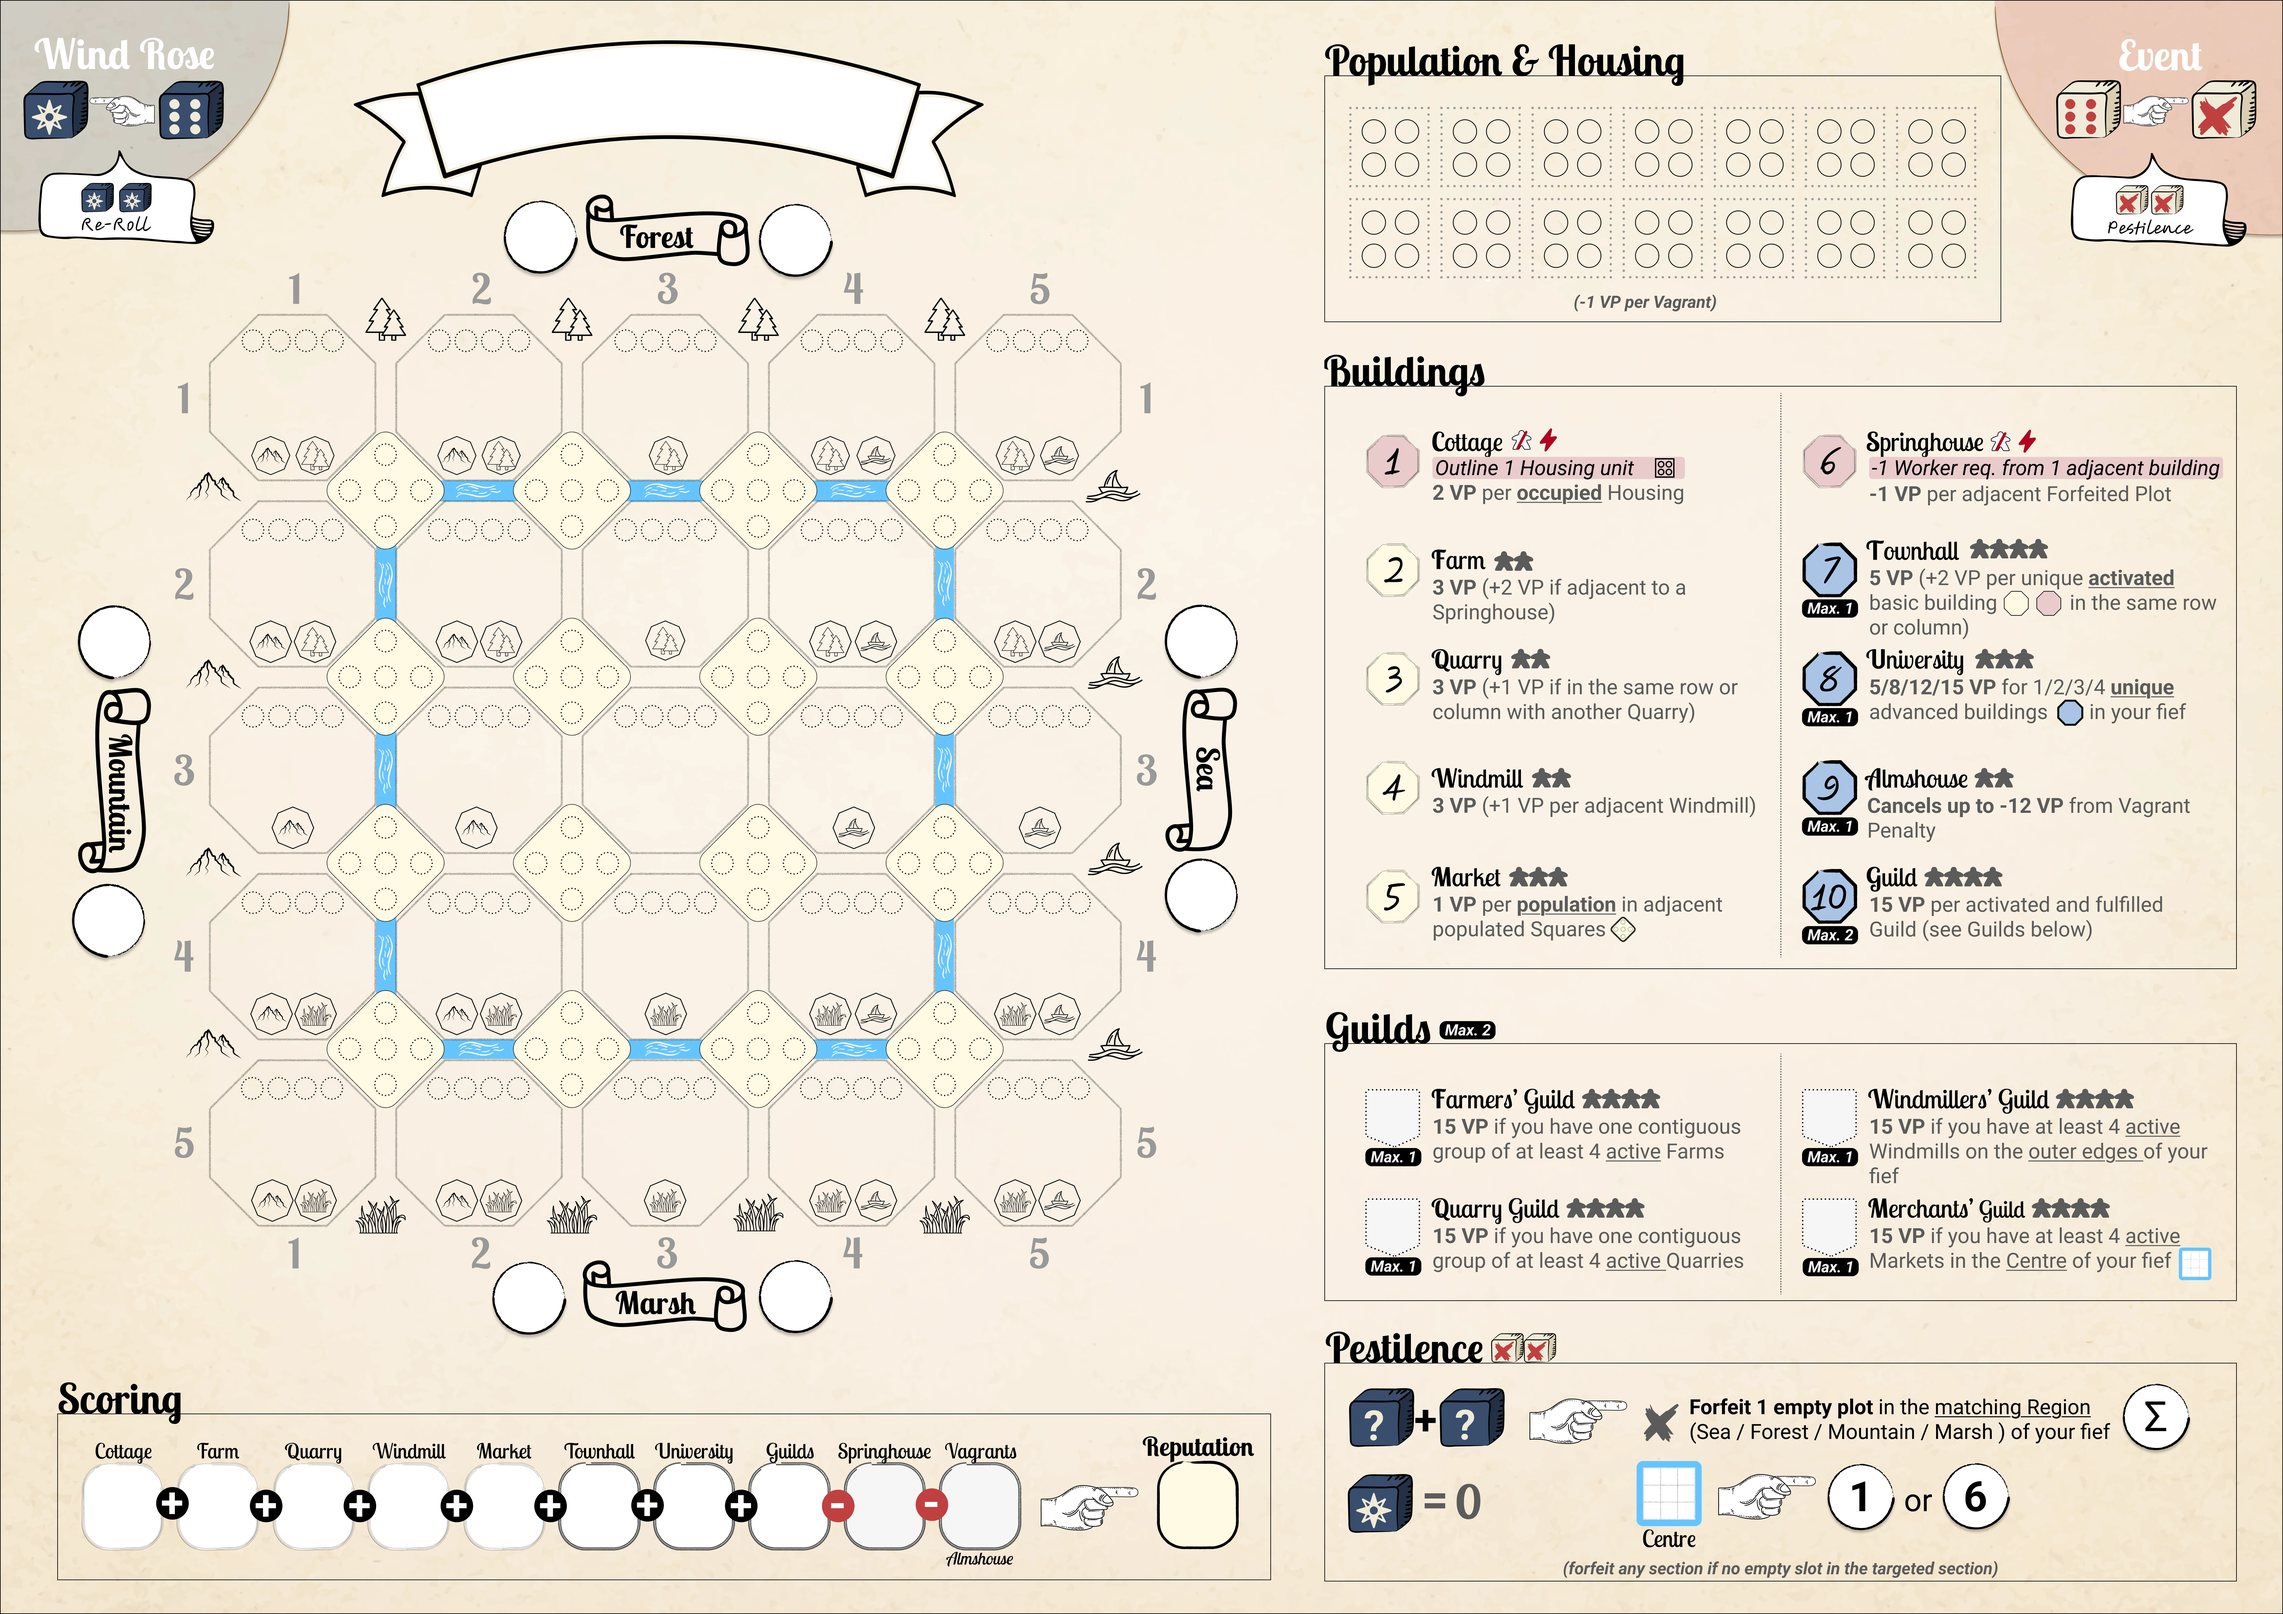
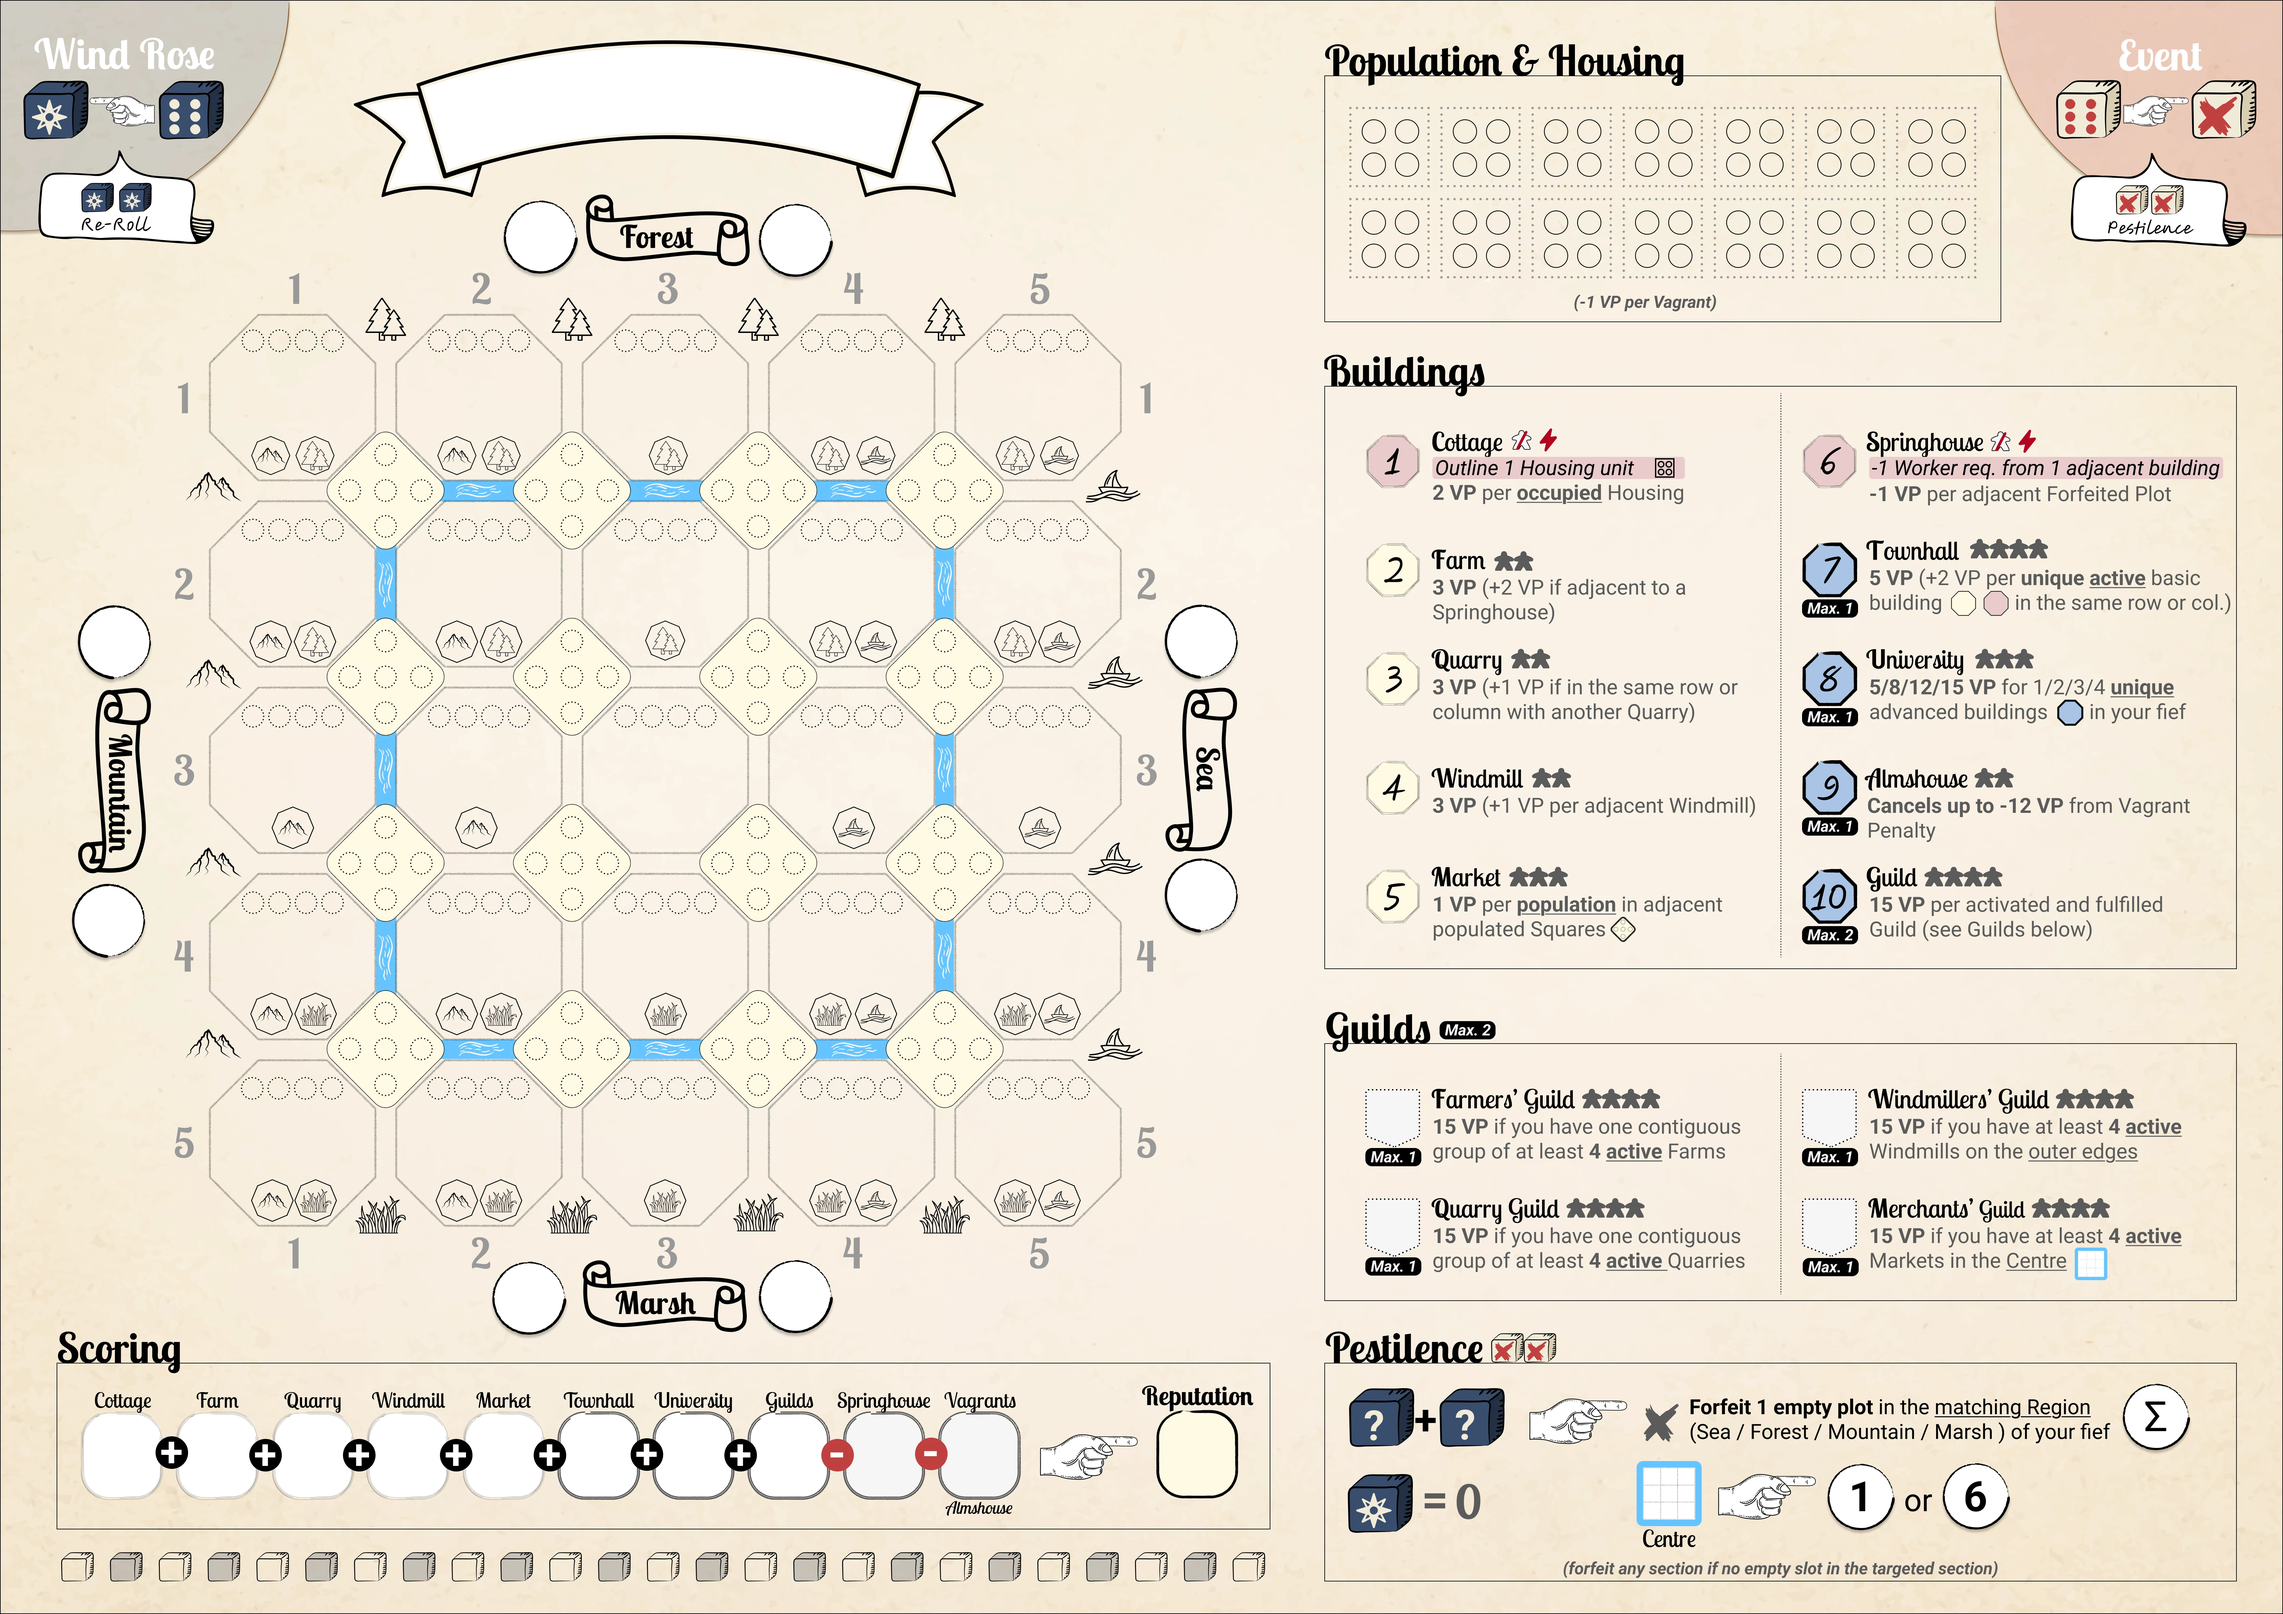
update player sheet with turn tracker

diff --git a/app/app.js b/app/app.js
@@ -341,6 +341,7 @@ const buildDicePreview = document.getElementById("buildDicePreview");
 const logEl = document.getElementById("log");
 const scoreOverlayEl = document.getElementById("scoreOverlay");
 const popHousingOverlay = document.getElementById("popHousingOverlay");
+const turnTrackOverlay = document.getElementById("turnTrackOverlay");
 const guildTypes = ["GF", "GQ", "GW", "GM"];
 const sectionLabels = {
   forest: "Forest",
@@ -383,7 +384,7 @@ const p2pQrCaption = document.getElementById("p2pQrCaption");
 const p2pQrModal = document.getElementById("p2pQrModal");
 const p2pQrClose = document.getElementById("p2pQrClose");
 const p2pShowQrBtn = document.getElementById("p2pShowQrBtn");
-const SHEET_VERSION = "v1.3";
+const SHEET_VERSION = "v1.7";
 const POP_CAPACITY = 5;
 const POP_LAYOUT = { cols: 7, rows: 2, pipsPerCell: 4 };
 const THEME_STORAGE_KEY = "rolling-fiefdoms-theme";
@@ -512,6 +513,7 @@ const scoringSpots = [
   { key: "vagrants", x: 428, y: 30 },
   { key: "reputation", x: 530, y: 30 },
 ];
+const TURN_TRACK_LENGTH = 25;
 
 function readStoredTheme() {
   try {
@@ -581,6 +583,7 @@ function resetState() {
   state.workerAllocations = null;
   state.activationMode = false;
   state.turnIndex = 0;
+  state.turnTrack = 0;
   state.activeTurn = true;
   state.lastStatusTurnIndex = 0;
   state.finalScore = null;
@@ -596,6 +599,7 @@ function resetState() {
   if (logEl) logEl.innerHTML = "";
   if (finishActivationBtn) finishActivationBtn.style.display = "none";
   if (newGameBtn) newGameBtn.style.display = "none";
+  renderTurnTrack(state.turnTrack);
   refreshDiceVisibility();
   updateTurnStatusChip();
   log("Game started.");
@@ -699,6 +703,7 @@ function captureP2PSnapshot() {
   return {
     fiefdomName: state.fiefdomName || "",
     turnIndex: state.turnIndex || 0,
+    turnTrack: state.turnTrack || 0,
     activeTurn: Boolean(state.activeTurn),
     rollAvailable: Boolean(state.rollAvailable),
     score: snapshotScore?.total ?? 0,
@@ -1005,6 +1010,7 @@ function sanitizeSnapshot(raw) {
   const seatsTotal = Math.max(1, Number(clone.seatsTotal || 1) || 1);
   const dice = sanitizeDice(clone.dice);
   if (!dice) return { ok: false, reason: "invalid dice array" };
+  const sanitizedTurnTrack = isFiniteNumber(clone.turnTrack) ? Math.max(0, Math.min(TURN_TRACK_LENGTH, Math.floor(clone.turnTrack))) : 0;
 
   return {
     ok: true,
@@ -1012,6 +1018,7 @@ function sanitizeSnapshot(raw) {
       version: clone.version || "1",
       sessionId: clone.sessionId || null,
       turnIndex: isFiniteNumber(clone.turnIndex) ? clone.turnIndex : 0,
+      turnTrack: sanitizedTurnTrack,
       activeTurn: typeof clone.activeTurn === "boolean" ? clone.activeTurn : true,
       rollAvailable: typeof clone.rollAvailable === "boolean" ? clone.rollAvailable : true,
       dice,
@@ -1043,6 +1050,7 @@ function buildFullSnapshot() {
     version: "1",
     sessionId: p2pUiState.sessionId,
     turnIndex: state.turnIndex,
+    turnTrack: state.turnTrack,
     activeTurn: state.activeTurn,
     rollAvailable: state.rollAvailable,
     dice: state.dice,
@@ -1077,6 +1085,10 @@ function applyFullSnapshot(snapshot) {
   const seatsTotal = snap.seatsTotal || p2pUiState.seatsTotal;
   p2pUiState.splitUsed = ensureSplitUsedMap(seatsTotal, p2pUiState.splitUsed);
   state.turnIndex = typeof snap.turnIndex === "number" ? snap.turnIndex : state.turnIndex;
+  if (typeof snap.turnTrack === "number") {
+    state.turnTrack = Math.max(0, Math.min(TURN_TRACK_LENGTH, Math.floor(snap.turnTrack)));
+    renderTurnTrack(state.turnTrack);
+  }
   state.activeTurn = typeof snap.activeTurn === "boolean" ? snap.activeTurn : state.activeTurn;
   state.rollAvailable = typeof snap.rollAvailable === "boolean" ? snap.rollAvailable : state.rollAvailable;
   state.dice = snap.dice || state.dice;
@@ -2765,6 +2777,7 @@ function maybeRollAfterLock() {
   if (isMultiplayerActive()) return "wait";
   const action = maybeRollAfterLockState(state);
   if (action === "roll") {
+    advanceTurnTrack();
     prepareNextRoll();
   }
 }
@@ -3266,6 +3279,7 @@ function completeMultiplayerTurn() {
   state.pendingActiveTurn = null;
   resetBuildDoneMap();
   setActiveSeat(nextSeatId());
+  advanceTurnTrack();
   prepareNextRoll();
   updateMultiplayerButtons();
   syncStateToPeer();
@@ -3355,6 +3369,29 @@ function renderPopHousingTrack(pop = 0, housing = 0, vagrants = 0) {
     }
   }
   popHousingOverlay.appendChild(grid);
+}
+
+function renderTurnTrack(filled = 0) {
+  if (!turnTrackOverlay) return;
+  const count = Math.max(0, Math.min(TURN_TRACK_LENGTH, Number(filled) || 0));
+  turnTrackOverlay.innerHTML = "";
+  for (let i = 0; i < TURN_TRACK_LENGTH; i += 1) {
+    const slot = document.createElement("div");
+    slot.className = "turn-slot";
+    if (i < count) {
+      const icon = document.createElement("img");
+      icon.src = "assets/img/forfeit.svg";
+      icon.alt = "";
+      icon.setAttribute("aria-hidden", "true");
+      slot.appendChild(icon);
+    }
+    turnTrackOverlay.appendChild(slot);
+  }
+}
+
+function advanceTurnTrack() {
+  state.turnTrack = Math.min(TURN_TRACK_LENGTH, (state.turnTrack || 0) + 1);
+  renderTurnTrack(state.turnTrack);
 }
 
 function adjacentCells(r, c) {
@@ -3485,5 +3522,7 @@ function toggleQrModal(show) {
       updateP2PControlsVisibility,
       renderMeeples,
       actionMessage,
+      renderTurnTrack,
+      maybeRollAfterLock,
     };
   }

diff --git a/index.html b/index.html
@@ -12,7 +12,7 @@
   <link rel="icon" type="image/svg+xml" href="assets/img/forfeit.svg" />
   <link rel="preload" href="assets/css/fonts.css" as="style" />
   <link rel="preload" href="assets/css/styles.css" as="style" />
-  <link rel="preload" href="resources/rolling-fiefdoms-player-sheet.webp?v=v1.3" as="image" fetchpriority="high" />
+  <link rel="preload" href="resources/rolling-fiefdoms-player-sheet.webp?v=v1.7" as="image" fetchpriority="high" />
   <link rel="preload" href="assets/img/rules.webp" as="image" />
   <link rel="preload" href="assets/img/playersheet.webp" as="image" />
   <link rel="preload" href="assets/img/github.webp" as="image" />
@@ -72,7 +72,7 @@
         <img
           id="sheetBaseImage"
           class="sheet-base"
-          src="resources/rolling-fiefdoms-player-sheet.webp?v=v1.3"
+          src="resources/rolling-fiefdoms-player-sheet.webp?v=v1.7"
           alt=""
           fetchpriority="high"
           decoding="async"
@@ -85,6 +85,7 @@
         <div id="regionOverlay" class="region-overlay"></div>
         <div class="board" id="board"></div>
         <div id="scoreOverlay" class="score-overlay"></div>
+        <div id="turnTrackOverlay" class="turn-track-overlay" aria-hidden="true"></div>
         <div id="popHousingOverlay" class="pop-housing-overlay"></div>
         <div id="buildingsOverlay" class="buildings-overlay" aria-label="Select building"></div>
         <div id="guildsOverlay" class="guilds-overlay" aria-label="Select guild"></div>

diff --git a/tests/ui-flows.test.js b/tests/ui-flows.test.js
@@ -35,6 +35,7 @@ const baseHtml = `
   <div id="buildDicePreview"></div>
   <ul id="log"></ul>
   <div id="scoreOverlay"></div>
+  <div id="turnTrackOverlay"></div>
   <div id="popHousingOverlay"></div>
   <button id="finishActivation"></button>
   <button id="finishSplitBtn"></button>
@@ -1505,6 +1506,29 @@ describe("turn status chip (jsdom)", () => {
     clickRoll(); // debug mode allows immediate next roll; turn index advances
     await flushMicrotasks();
     expect(chip.textContent).toContain("Non-active turn");
+  });
+});
+
+describe("turn tracker overlay (jsdom)", () => {
+  it("crosses one slot for each completed turn", async () => {
+    await setupApp({ enableHooks: true });
+    const hooks = window.__rfTestHooks;
+    const overlay = document.getElementById("turnTrackOverlay");
+    expect(overlay).toBeTruthy();
+    expect(overlay.querySelectorAll("img").length).toBe(0);
+
+    hooks.state.turnTrack = 0;
+    hooks.renderTurnTrack(0);
+    hooks.state.diceLocked = true;
+    hooks.state.pendingNextRoll = true;
+    hooks.state.pendingPopulation = null;
+    hooks.state.pestilence = false;
+    hooks.state.forceForfeit = false;
+
+    hooks.maybeRollAfterLock();
+    await flushMicrotasks();
+    expect(hooks.state.turnTrack).toBe(1);
+    expect(overlay.querySelectorAll("img").length).toBe(1);
   });
 });
 

diff --git a/assets/css/styles.css b/assets/css/styles.css
@@ -560,10 +560,35 @@ body.theme-dark .sheet-base {
 .score-overlay {
   position: absolute;
   left: 20px;
-  top: 668px;
+  top: 642px;
   width: 900px;
   height: 70px;
   pointer-events: none;
+}
+
+.turn-track-overlay {
+  position: absolute;
+  left: 24px;
+  top: 728px  ;
+  width: 574px;
+  height: 20px;
+  display: grid;
+  grid-template-columns: repeat(25, 1fr);
+  gap: 2px;
+  pointer-events: none;
+}
+
+.turn-track-overlay .turn-slot {
+  display: flex;
+  align-items: center;
+  justify-content: center;
+}
+
+.turn-track-overlay .turn-slot img {
+  width: 20px;
+  height: 20px;
+  filter: grayscale(1) contrast(100) brightness(1);
+  mix-blend-mode: multiply;
 }
 
 .region-overlay {

diff --git a/sw.js b/sw.js
@@ -2,7 +2,7 @@
 const CACHE_VERSION = "v1.15";
 const CACHE_NAME = `rf-cache-${CACHE_VERSION}`;
 const APP_VERSION = "v5";
-const SHEET_VERSION = "v1.6";
+const SHEET_VERSION = "v1.7";
 const ASSETS = [
   "/",
   "/index.html",

diff --git a/app/state-controller.js b/app/state-controller.js
@@ -32,6 +32,7 @@ const baseState = {
   fiefdomName: "",
   activeTurn: true,
   turnIndex: 0,
+  turnTrack: 0,
   invalidSelection: false,
   finalScore: null,
   theme: "light",
